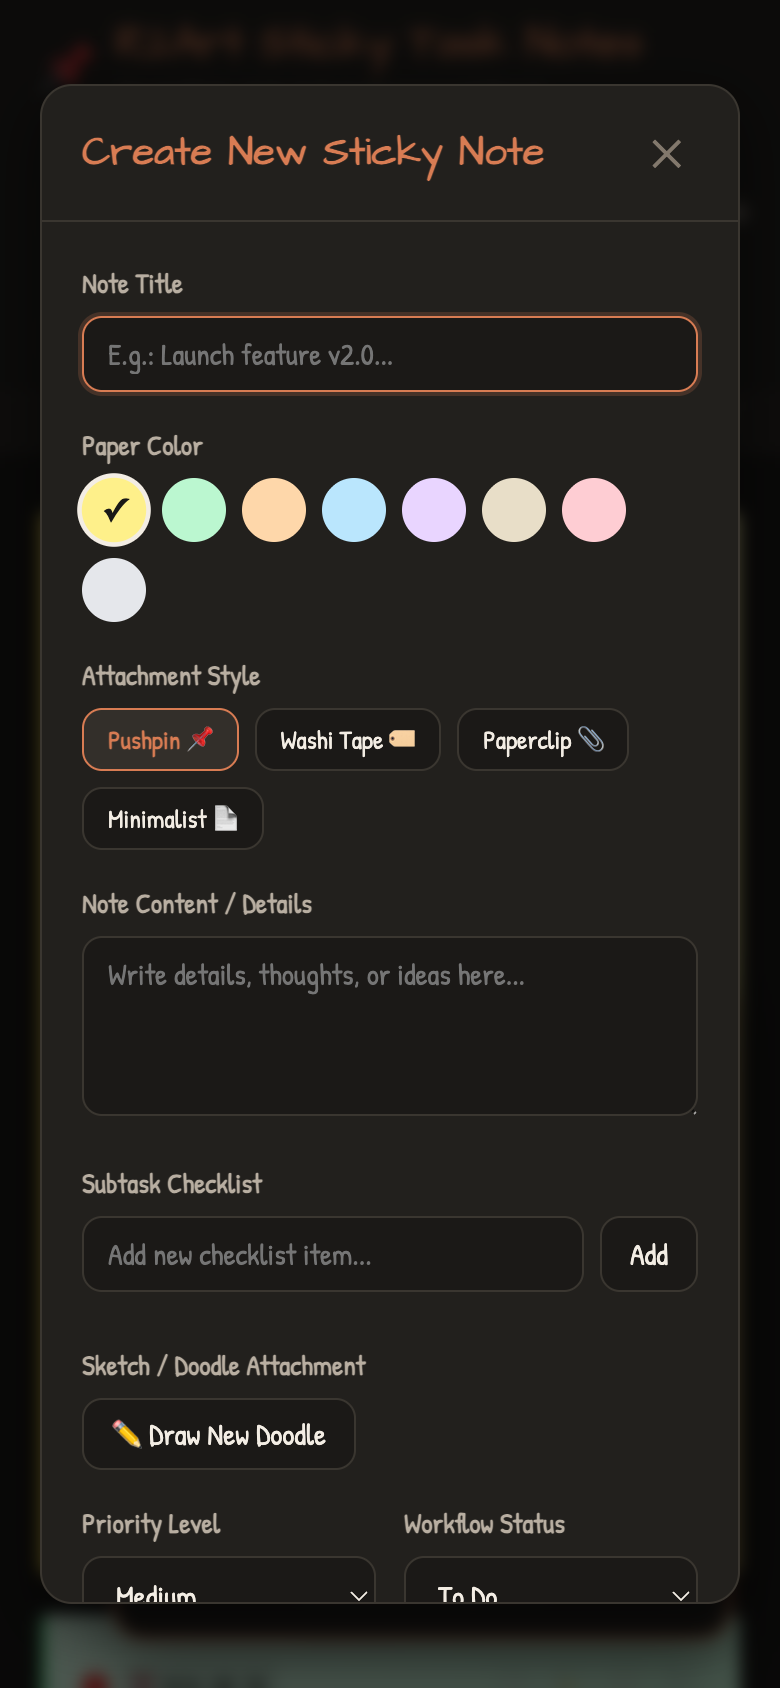
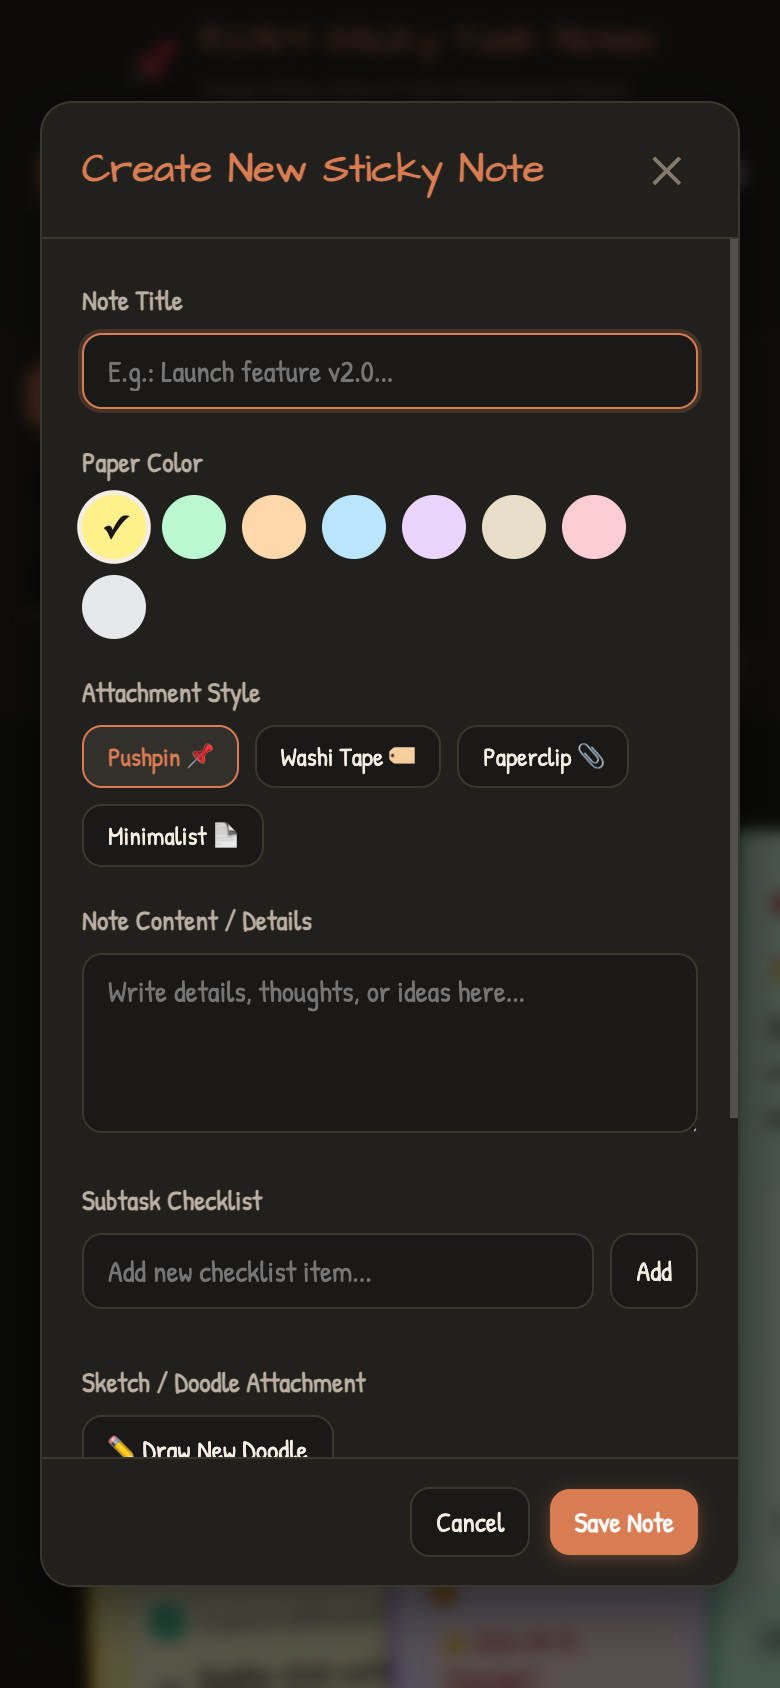
fix: make task creation/editor modal scrollable with pinned header and footer

diff --git a/css/components.css b/css/components.css
@@ -35,12 +35,20 @@
   box-shadow: var(--shadow-lg);
   width: 100%;
   max-width: 580px;
-  max-height: 90vh;
+  max-height: 88vh;
   display: flex;
   flex-direction: column;
   overflow: hidden;
   transform: scale(0.95);
   transition: transform 0.2s ease;
+}
+
+.modal-card form {
+  display: flex;
+  flex-direction: column;
+  flex: 1;
+  min-height: 0;
+  overflow: hidden;
 }
 
 .modal-overlay.active .modal-card {
@@ -53,6 +61,7 @@
   display: flex;
   align-items: center;
   justify-content: space-between;
+  flex-shrink: 0;
 }
 
 .modal-title {
@@ -81,6 +90,22 @@
   padding: 20px;
   overflow-y: auto;
   flex: 1;
+  min-height: 0;
+  -webkit-overflow-scrolling: touch;
+  scrollbar-width: thin;
+}
+
+.modal-body::-webkit-scrollbar {
+  width: 6px;
+}
+
+.modal-body::-webkit-scrollbar-track {
+  background: transparent;
+}
+
+.modal-body::-webkit-scrollbar-thumb {
+  background-color: var(--border-subtle);
+  border-radius: 6px;
 }
 
 .modal-footer {
@@ -90,6 +115,8 @@
   align-items: center;
   justify-content: flex-end;
   gap: 10px;
+  flex-shrink: 0;
+  background-color: var(--bg-modal);
 }
 
 /* ==========================================================================
